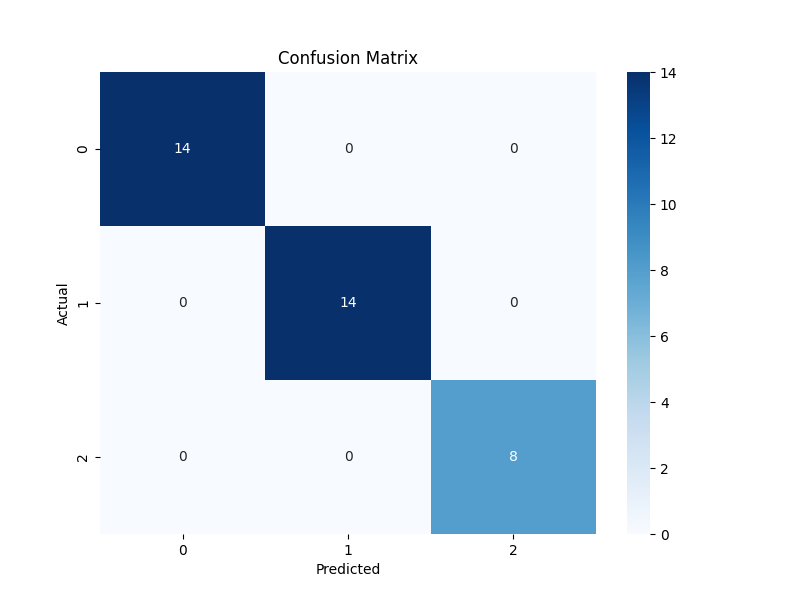
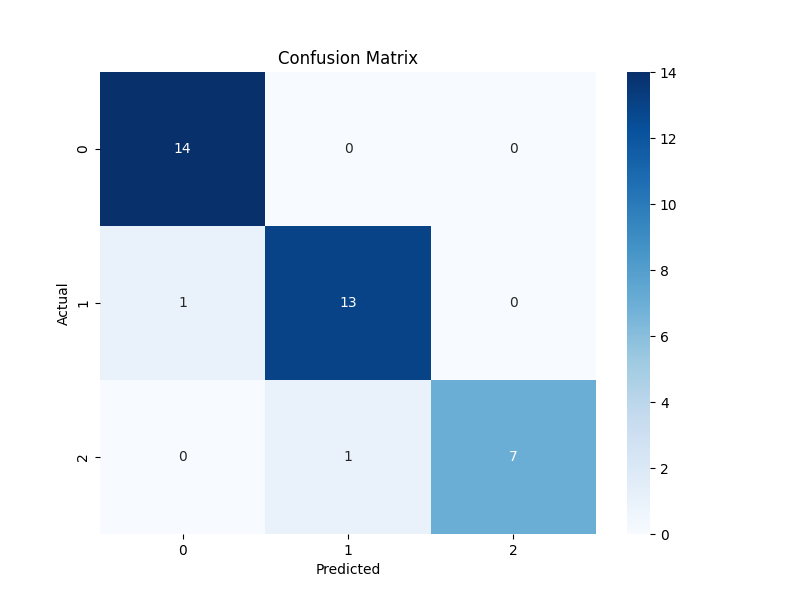
Updated until the best model Found

Changed region(s): [[0.3125, 0.36, 0.5625, 0.66], [0.625, 0.75, 0.6562, 0.78], [0.2188, 0.48, 0.25, 0.51]]

diff --git a/src/file3.py b/src/file3.py
@@ -14,15 +14,15 @@ import dagshub
 dagshub.init(repo_owner='MobiNomi', repo_name='ML-flow', mlflow=True)
 mlflow.set_tracking_uri("https://dagshub.com/MobiNomi/ML-flow.mlflow")
 
-mlflow.set_experiment("Wine_Classification_Experiment_2")  # Set the experiment name
+mlflow.set_experiment("Wine_Classification_Experiment")  # Set the experiment name
 
 wine = load_wine()
 X = wine.data
 y = wine.target
 X_train, X_test, y_train, y_test = train_test_split(X, y, test_size=0.2, random_state=42)
 
-max_depth = 9
-n_estimators = 16
+max_depth = 5
+n_estimators = 8
 
 with mlflow.start_run():
     model = RandomForestClassifier(max_depth=max_depth, n_estimators=n_estimators, random_state=42)
